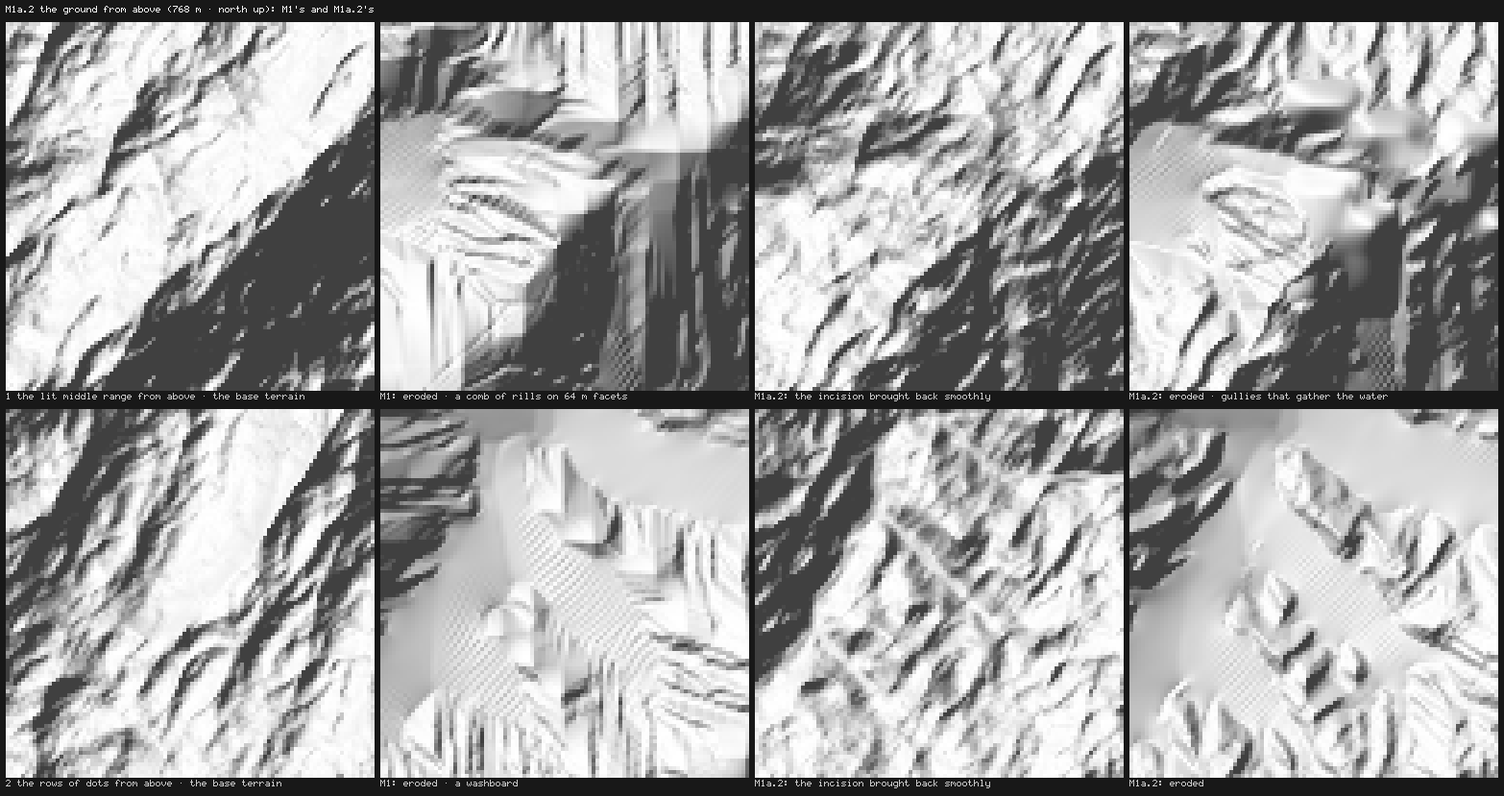
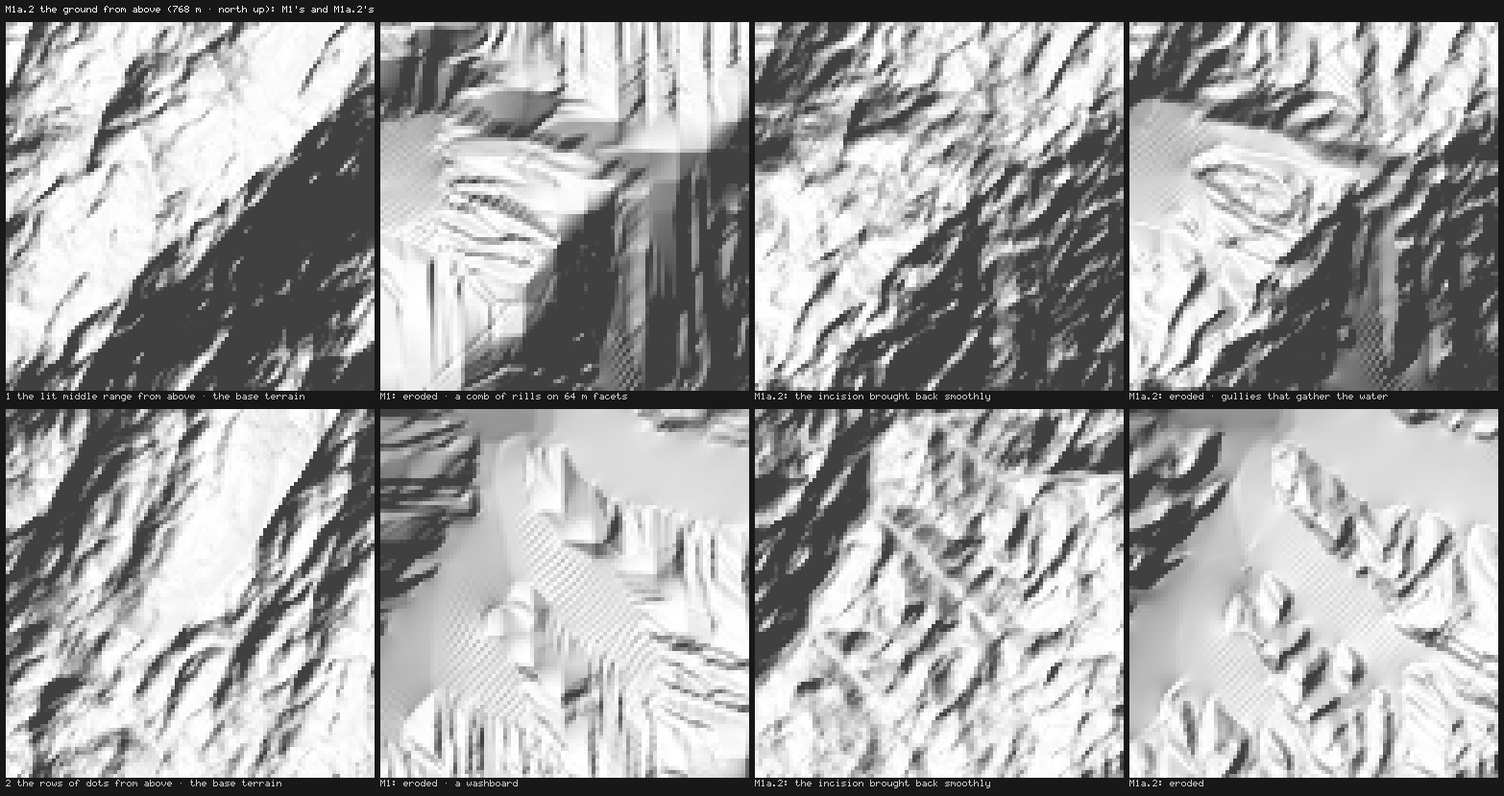
Vista plan: M1a.2 reworked; log, sheets and parked items
M1a.2's status and log gain the rework: what made the blobs, what was
tried and dropped (ice draped over convex beds buried crests the rock
had stood through; capped, it changed nothing), and three shape
measures that did not see the blobs. Parked: ice caps laid as smooth
domes (M7, or the next view that shows one) and the hero's near ridge,
which rises into M1's fixed frame on the reworked world (M1a.4, M1a.7).
The sheets show M1, the first M1a.2 and the rework, and the auto
camera's pick on the new world.

diff --git a/RayTracer/vista-log/M1a.2.md b/RayTracer/vista-log/M1a.2.md
@@ -14,6 +14,31 @@ in the grid's directions. The eroded world: 33.1% → 17.4% along the grid, 7.5%
 terrain 1.4%), drainage and relief no worse. In the hero the lit middle range's rock is less combed, but a glacier now caps its crest
 as smooth pale domes, and the rows of dots remain (M1a.3).
 
+*Reworked (2026-10-29, the user's review: "they look more like blobs than M1 looked").* **The smooth transfer rounded every high
+point.** The monotone cubic leaves every summit and crest the coarse samples hold level, so each came back a rounded top a coarse cell
+(64 m, some 50 pixels at 3.8 km) wide; and a glacier lay on the lit crest as pale domes, its surface the solve's, smooth between 64 m
+samples. The rework keeps the high points pointed (`StreamPower.UpsampleSharp`, `RefineCubic = 2`): at a maximum along a row or a
+column the curve leaves the sample along each segment's own slope, a kink, so a summit stays a point; low points stay rounded. In the
+lit middle range the crests are points again and no ice lies there (0.0% of the place under 5 m of ice, against 6.5% on the first
+world; M1 0.03%). What was learned on the way, and not shipped:
+
+- **The glacier left the crest by chance, not by the sharper summits.** World-wide, as much ice lies on convex ground on the reworked
+  world as on the first (16.9% of its volume on 64 m crests, 15.9% first, M1 13.2%): the ice solve on the 64 m grid moves its ice with
+  any change of the ground. A cap laid as the solve's smooth surface reads as a dome wherever it lies (parked, vista-plan §10, "Ice
+  caps laid as smooth domes").
+- **Ice draped over convex beds** (the solve's thickness over the rock's own shape, `GlacierDrapeMetres`): it turned the first world's
+  domes into ice that follows the crests, but it gave every crest the rock had stood through the full thickness, and the ridge 130 m
+  from the hero's camera rose under 15 m of ice into a smooth mass filling the frame's right. Capped at the smooth surface's thickness
+  (so it adds no ice anywhere) it changed nothing visible. Removed.
+- **Three measures of blobs, none of which saw them**: the crests' fall at 24 m over 48 m (the small crests of the faces' detail
+  dominate it: M1 0.48, smooth 0.52, pointed 0.53), the share of ground domed both ways after smoothing (it counts the detail's knobs:
+  base 10.5%, M1 7.8%, smooth and pointed both 11.8%) and the 64 m summits' drop to their neighbours (37, 40, 36 m). The blobs were
+  ice, at one place. What would have caught them: the ice under each loupe place, which `--erosion-measure`'s crops now report.
+- **The near ridge**: with M1's camera the ridge at the frame's right, 130–160 m off, rises into the frame on the reworked world (its
+  silhouette from x ≈ 3600 to x ≈ 3000 of the 4K frame at y = 1100): metres of change that near the camera swing a sixth of the frame,
+  and the face reads as a smooth dark mass (the near faces' detail is M1a.4). The auto camera's own pick on the new world frames the
+  range without it (`m1a-2-hero.png`, right).
+
 *What was built:*
 
 - **The smooth transfer** (`StreamPower.Refine`, `UpsampleSmooth`): monotone cubic Hermite along the coarse rows, then down the fine
@@ -35,9 +60,14 @@ as smooth pale domes, and the rows of dots remain (M1a.3).
   key only when on, so M1.11d's, M1.12c's and M1.13's settings keep their keys (their pins hold). The hills keep M1.7's passes until
   their own milestone. The cache's passes version is 5.
 - **`--erosion-measure --incise-only`** now reports the grid's patterns and writes the crops of the incision alone (50 s, no GPU),
-  the loop most of this slice ran in; the incision's line names the time back to the world grid.
+  the loop most of this slice ran in; the incision's line names the time back to the world grid. Since the rework each crop's line
+  also gives its share under more than 5 m of ice.
+- **The rework's pointed high points** (`StreamPower.UpsampleSharp`, `RefineCubic = 2`, shipped): the same monotone cubic, but at a
+  maximum along a row or a column the segments leave the sample along their own differences (still between their samples).
+  `RefineCubic = 1` is the first M1a.2's smooth transfer; today's ice is laid smoothly for both.
 - **`vista-views/ground/render.ps1 -Sheets m1a2`**: M1's world (M1's transfer and passes through `VISTA_EROSION_SETTINGS`) and
-  M1a.2's, each made and measured again, and the four sheets.
+  M1a.2's, each made and measured again, the first M1a.2's lit loupe beside them, the auto camera's pick on M1a.2's world, and the
+  four sheets.
 
 *The comb's cause* (tilted planes, a prototype of the pipe model on the CPU, 257² cells of 8 m, a 35° plane roughened by half a metre,
 1500 steps; relief along the grid / windows rippling):
@@ -76,31 +106,37 @@ chosen over 0.01 for the margin: at 0.01 more steep faces stand over their talus
 
 - **The eroded world** (`--erosion-measure`, seed 42, 4097² × 8 m; `measure-m1.log` and `measure-m1a2.log` of the render script):
 
-| | M1 | M1a.2 |
-|---|---|---|
-| incised: along the grid / rippling | 67.5% / 0.2% | 15.2% / 0.8% |
-| incised: channels ≥ 1 km² longest without a lake; into one; lakes | 6.8 km; 48.8%; 6.4% | 2.5 km; 26.2%; 7.7% |
-| eroded: along the grid (steep faces, loose ground) | 33.1% (32.8, 34.1) | 17.4% (17.7, 17.9) |
-| eroded: rippling (steep faces, loose ground) | 7.5% (8.6, 8.6) | 2.0% (1.7, 3.4) |
-| rock's lines of high curvature down the fall line (80–90° off the contour) / along it | 41.5% / 2.4% | 23.4% / 6.3% |
-| channels ≥ 1 km²: longest without a lake; into one; lakes; Strahler | 33.6 km; 95.7%; 0%; 5 | 39.3 km; 96.2%; 0%; 5 |
-| relief 1 km (10/50/90%); 5 km | 332/541/774 m; 960/1173/1454 m | 348/555/785 m; 976/1181/1473 m |
-| 8 m slopes: mean; over 40°; facet; near its talus | 35.3°; 48.6%; 9.9% at 48.6°; 11.0% | 36.7°; 49.5%; 10.5% at 58.8°; 12.2% |
-| 64 m slopes: facet; near its talus | 10.9%; 2.5% | 10.6%; 3.2% |
-| spikes over 5 m (base 1421) / over 20 m | 411 / 0 | 706 / 0 |
-| loose: mean; over 1 m | 12.7 m; 36% | 13.8 m; 38% |
-| at Zermatt: rock, scree, meadow, forest, ice | 45.2, 8.1, 10.9, 26.0, 5.3% | 46.2, 8.2, 11.0, 25.3, 5.0% |
-| glaciers: share; volume; thickest | 7.9%; 3.42 km³; 297 m | 7.6%; 3.33 km³; 275 m |
-| erosion (GPU s; ms a step); back to the world grid (CPU) | 19.7–21.7 s; 13–14 ms; 0.1–0.2 s | 26.4 s; 17.6 ms; 0.5–0.7 s |
+| | M1 | M1a.2 first (smooth) | M1a.2 reworked (pointed) |
+|---|---|---|---|
+| incised: along the grid / rippling | 67.5% / 0.2% | 15.2% / 0.8% | 15.9% / 0.8% |
+| incised: channels ≥ 1 km² longest without a lake; into one; lakes | 6.8 km; 48.8%; 6.4% | 2.5 km; 26.2%; 7.7% | 2.5 km; 25.2%; 7.8% |
+| eroded: along the grid (steep faces, loose ground) | 33.1% (32.8, 34.1) | 17.4% (17.7, 17.9) | 17.7% (17.8, 18.0) |
+| eroded: rippling (steep faces, loose ground) | 7.5% (8.6, 8.6) | 2.0% (1.7, 3.4) | 2.0% (1.8, 3.4) |
+| rock's lines of high curvature down the fall line (80–90° off the contour) / along it | 41.5% / 2.4% | 23.4% / 6.3% | 23.6% / 6.2% |
+| channels ≥ 1 km²: longest without a lake; into one; lakes; Strahler | 33.6 km; 95.7%; 0%; 5 | 39.3 km; 96.2%; 0%; 5 | 39.3 km; 96.2%; 0%; 5 |
+| relief 1 km (10/50/90%); 5 km | 332/541/774 m; 960/1173/1454 m | 348/555/785 m; 976/1181/1473 m | 346/552/783 m; 972/1179/1474 m |
+| 8 m slopes: mean; over 40°; facet; near its talus | 35.3°; 48.6%; 9.9% at 48.6°; 11.0% | 36.7°; 49.5%; 10.5% at 58.8°; 12.2% | 36.5°; 49.1%; 10.2% at 58.7°; 11.8% |
+| 64 m slopes: facet; near its talus | 10.9%; 2.5% | 10.6%; 3.2% | 10.6%; 3.1% |
+| spikes over 5 m (base 1421) / over 20 m | 411 / 0 | 706 / 0 | 1081 / 2 |
+| loose: mean; over 1 m | 12.7 m; 36% | 13.8 m; 38% | 13.5 m; 38% |
+| at Zermatt: rock, scree, meadow, forest, ice | 45.2, 8.1, 10.9, 26.0, 5.3% | 46.2, 8.2, 11.0, 25.3, 5.0% | 45.9, 8.2, 11.2, 25.4, 5.0% |
+| glaciers: share; volume; thickest | 7.9%; 3.42 km³; 297 m | 7.6%; 3.33 km³; 275 m | 7.6%; 3.35 km³; 226 m |
+| erosion (GPU s; ms a step); back to the world grid (CPU) | 19.7–21.7 s; 13–14 ms; 0.1–0.2 s | 26.4 s; 17.6 ms; 0.5–0.7 s | 26–31 s; 17–21 ms; 0.65 s |
+
+The reworked world's eroded hash is `221d35af5bebe0e0` in both of its runs. Its erosion times varied by run: other work held about
+5 GB of the GPU's memory during the rework, and two renders hit the Windows GPU timeout before passing on a retry (gotchas). The
+pointed summits leave more single cells standing over their neighbours (1081 spikes over 5 m, the base terrain 1421).
 
 The incised ground drains worse than M1's before the GPU erosion (its longest channel without a lake 6.8 → 2.5 km): the faces' detail
 brings the base terrain's small hollows back onto the cut faces. The erosion fills them (its pools to 100 m); the eroded world drains
 better than M1's.
 
-- **The places** (the crops' lines): the lit middle range (2000, 850), 3.8 km off, 35.9% → 17.0% along the grid, rippling 9.0% →
-  2.1%; the rows of dots (1300, 1250), 3.4 km, 32.1% → 15.4%, 16.0% → 1.4%; the near face (3520, 1680), 132 m off at 4 cm a pixel
-  (the 8 m cell 192 pixels), 30.5% → 15.6%, 9.0% → 4.2%.
-- **Tests** (Release, the whole solution: Vista.Tests 962, three more; RayTracer.Tests 336, Pinball.Tests 55): the smooth upsampling
+- **The places** (the crops' lines, M1 → reworked): the lit middle range (2000, 850), 3.8 km off, 35.9% → 16.6% along the grid,
+  rippling 9.0% → 1.4%, under ice 0.03% → 0.0% (the first M1a.2: 6.5%); the rows of dots (1300, 1250), 3.4 km, 32.1% → 15.7%,
+  16.0% → 1.4%; the near face (3520, 1680), 134 m off at 4 cm a pixel (the 8 m cell 188 pixels), 30.5% → 15.7%, 9.0% → 4.9%, its
+  768 m square under ice 12.0% → 13.6% (the face itself is rock).
+- **Tests** (Release, the whole solution: Vista.Tests 963, four more; RayTracer.Tests 336, Pinball.Tests 55): the sharp upsampling
+  keeps a straight-sided ridge's point where the smooth one rounds it, and rounds a valley floor alike; the smooth upsampling
   keeps the coarse samples and a plane, stays between two samples along a row and has no crease at a bend; the curved channels take
   the saddles out of a diagonal V-valley's floor, keep its coarse samples, leave the ground beyond a coarse cell alone and report
   their distances; three corner cuts turn an east-north-east zigzag into a falling curve that keeps its ends and passes none of its
@@ -108,12 +144,15 @@ better than M1's.
   comb it without the spread (over half the windows ripple, over 40% of the relief along the rows) and do not with it (under 10%,
   under 25%). M1.7's erosion keeps its pin, M1.11d's transfer its pin; the shipped ones are pinned anew.
 - **The GPU**: `--gpu-selftest` passes (90 checks, three more: the discharge and its two spreads against the C# reference, the largest
-  difference 8e-8 of the largest value; 200 steps within 2 mm); 22 committed views above the eroded ground, the lowest 2.0 m.
-- **The goldens** (`--golden-check`): eight of ten moved, as the plan expects until M1a.7: every view over the eroded world (aerial
-  −3.2% mean luminance, default −0.6%, down-slope +17.9% (its camera lifted 8.6 m), hero −0.6%, alpenglow at dusk −0.3% and dawn
-  +1.5%, April's slopes −5.1%, the misty ridges −1.0%); the sky and twilight within tolerance.
+  difference 8e-8 of the largest value; 200 steps within 2 mm); 22 committed views above the eroded ground, the lowest 2.0 m (the
+  reworked world: 90 checks again, the lowest 2.6 m).
+- **The goldens** (`--golden-check`): eight of ten moved, as the plan expects until M1a.7: every view over the eroded world. On the
+  reworked world: aerial −2.3% mean luminance, default +0.4%, down-slope −0.1% (its blocks 73% rms: other ground in every pixel),
+  hero −3.6%, alpenglow at dusk +0.03% and dawn +1.0%, April's slopes −3.9%, the misty ridges −0.4%; the sky and twilight within
+  tolerance.
 - **The cost ledger** (`vista-views/measure.ps1`): 0.30 / 6.92 / 5.11 / 18.70 ns a pixel-sample against M1.17's 0.44 / 6.95 / 5.84 /
-  20.79; the integrator is unchanged, the default and down-slope views stand on other ground.
+  20.79, on the first M1a.2's world; the integrator is unchanged, the default and down-slope views stand on other ground. Not measured
+  again for the rework: other work held the GPU at 95% (5.6 GB of its 8 GB) and the aerial view's render hit the Windows GPU timeout.
 - **The views** (`MeasurementViewTests`, the self-test): on M1a.2's ground the default and sky views stood 16.3 m under the incised
   ground (11.8 m under the eroded), the down-slope view 5.6 m, `pools/fog-sea` 2.4 m under the eroded ground and `pools/mist-lake`
   0.4 m over it; each keeps its pose and is lifted to stand where it stood: the default and sky views 2 m above the incised ground
@@ -133,12 +172,14 @@ better than M1's.
 - **The channels' V at the hard rock's talus (60°)**, so the carving never cuts a coarse wall back; the flat floor three quarters of a
   cell wide, so a route along a curve between samples meets no pit (with a V's foot alone, the curves cut the incised ground's longest
   channel without a lake from 6.9 to 3.8 km).
-- **The glacier on the lit crest is kept**: it is where the ice solve puts it on the new ground, not an artefact of the transfer (laid
-  bilinearly it is the same glacier, faceted). Its smooth domes are parked for the user's verdict.
+- **Pointed high points, smooth everywhere else** (the rework): the user's verdict on the first M1a.2 (blobs) over its numbers,
+  which could not see them; the grid's patterns are the same either way (17.7% against 17.4% along the grid).
+- **No draped ice**: draped, the ice buried the crests the rock stood through; capped, it changed nothing. Where the ice lies is the
+  solve's, and it moves with the ground; how a cap looks is parked (§10, "Ice caps laid as smooth domes").
 - **The near views lifted, not searched for again**: same spots, same poses, at the heights above the ground they had, so the ledger's
   views change as little as the ground lets them.
-- **The hero's camera stays** (`signoff/hero.camera.json`, now 165 m above the eroded ground under it, 150 m before); the auto camera
-  was not run on the new world (M1a.7).
+- **The hero's camera stays** (`signoff/hero.camera.json`, 150 m above M1's eroded ground), so every slice compares with M1's
+  frame; the auto camera's pick on the reworked world is shown beside it (`m1a-2-hero.png`), a heading that leaves the near ridge out.
 
 *Gotchas:*
 
@@ -154,12 +195,20 @@ better than M1's.
   bound even when the spread is off.
 - **The curve test's head**: four side cells tie as the head's largest donor; the first in row order wins and turns the stream in
   from the side, so the test's channel threshold keeps only the floor's cells.
+- **The numbers rewarded the blobs** (the rework's lesson): the grid's patterns score round shapes as natural, and none of three
+  shape measures saw what the eye saw, which was ice at one place. Look at the loupes before believing a measure, and ask what a
+  measure cannot see.
+- **The Windows GPU timeout with the GPU shared**: about 5 GB of the 3070's memory was held by other work, and three renders
+  (a loupe's trace twice, a near view's acceleration-structure build once) were removed by the driver's timeout (TDR); each passed on
+  a retry, and the same renders had passed earlier in the day.
 
-**M1a.2 hand-off.** To understand this, start with `vista-views/sheets/m1a-2-ground.png` (from above, M1's ground beside M1a.2's),
-then `Vista.Core/World/StreamPower.cs` (`Refine`, `UpsampleSmooth`, `CarveChannels`, `FinerThanCell`) and
+**M1a.2 hand-off.** To understand this, start with `vista-views/sheets/m1a-2-lit.png` (M1, the first M1a.2's blobs, the rework) and
+`m1a-2-ground.png` (from above, M1's ground beside M1a.2's), then `Vista.Core/World/StreamPower.cs` (`Refine`, `UpsampleSharp`,
+`CarveChannels`, `FinerThanCell`) and
 `Vista.Core/World/ErosionReference.cs` (`SpreadDischarge`, mirrored in `Vista.App/Shaders/VistaErosion.hlsl`). What is left of the
 grid's patterns: the washboard on gentle loose ground (3.4% of its windows ripple) and the rows of dots it leaves in the render
-(M1a.3), and the talus planes' creases (parked, for M1a.4).
+(M1a.3), and the talus planes' creases (parked, for M1a.4). What is left of the blobs: ice caps laid as smooth domes wherever the
+solve puts a cap (parked), and near faces that read as smooth masses (M1a.4).
 
 *Commands (from `RayTracer/`, after `dotnet build Vista.App -c Release`):*
 
@@ -175,6 +224,10 @@ M1's world for comparison: `$env:VISTA_EROSION_SETTINGS = 'RefineCubic=0;RefineC
 
 *Files:*
 
+- The rework changed: `Vista.Core/World/StreamPower.cs` (`UpsampleSharp`), `ErosionSettings.cs` (`RefineCubic` 2), `Glaciers.cs`
+  (smooth ice for 1 and 2), `Vista.App/Gpu/ErosionMeasure.cs` (the crops' ice), `Vista.Tests/StreamPowerTests.cs`,
+  `ErosionReferenceTests.cs`; `vista-views/ground/render.ps1` (the first M1a.2's loupe, the auto camera's pick); the log, the plan,
+  the READMEs, the ledger and the four sheets.
 - Changed: `Vista.Core/World/StreamPower.cs` (the transfer, the curves, the faces' detail), `ErosionReference.cs` (the spread
   discharge, the state's `Discharge`), `ErosionSettings.cs` (the new settings, the mountains' and hills' values, the constants'
   `SpreadDischarge`), `Glaciers.cs` (the ice laid smoothly), `ErosionCache.cs` (passes version 5); `Vista.App/Shaders/VistaErosion.hlsl`
@@ -187,10 +240,9 @@ M1's world for comparison: `$env:VISTA_EROSION_SETTINGS = 'RefineCubic=0;RefineC
 
 *Next:* M1a.3 — the washboard gone (vista-plan §10, M1a plan).
 
-*Judge this:* `m1a-2-ground.png`, the ground under the lit middle range (top) and under the rows of dots (bottom) from above: the
-mountain as first drawn (left), M1's eroded ground, M1a.2's before and after the water's erosion; then `m1a-2-lit.png` and
-`m1a-2-near.png` (M1's pixels beside M1a.2's) and `m1a-2-hero.png`. *Ignore this:* the rows of dots and the washboard on gentle ground
-(M1a.3); the rock's own texture and the near face's flat look in shade (M1a.4); the light and dark bands on the rock (M1a.5); the
-meadows (M1a.6); the trees (M5). *Questions:* From above, does the right-hand square of each row look more like real mountain ground
-than M1's (second)? In the lit loupe, do the rock faces still look combed, or do they read as gullies and ribs? On the lit crest there
-are now smooth white domes: do they read as snow and ice on a summit, or as something else?
+*Judge this:* `m1a-2-lit.png`, the lit middle range: M1 (top), the first M1a.2 with its blobs (middle), the rework (bottom); then
+`m1a-2-hero.png` (M1, M1a.2 from M1's camera, and the auto camera's own pick on M1a.2's world) and `m1a-2-ground.png` (from above).
+*Ignore this:* the rows of dots and the washboard on gentle ground (M1a.3); the rock's own texture and the near face's smooth dark look
+in shade (M1a.4); the light and dark bands on the rock (M1a.5); the meadows (M1a.6); the trees (M5). *Questions:* In the bottom loupe,
+do the crests read as rock again, or still as blobs? Do its faces read as gullies and ribs, or as combed? In the hero from M1's camera
+the slope at the right now looms large: does the auto camera's pick beside it look like a better picture of the same mountains?

diff --git a/RayTracer/vista-plan.md b/RayTracer/vista-plan.md
@@ -353,7 +353,8 @@ change.
   uncarved), the relief grows and the summits nearly keep their height; the ice's water runs under it, along the ground's
   drainage, which holds (95–97% of the grid into a 1 km² channel).
 - **The grid's own patterns** (M1a.2, [`vista-log/M1a.2.md`](vista-log/M1a.2.md)): the incision comes back to the 8 m grid with a
-  continuous slope (monotone cubic along the rows, then the columns), its channels carved along their streams' lines with the
+  continuous slope (monotone cubic along the rows, then the columns; its high points kept pointed, a kink at each maximum, since a
+  smooth top a coarse cell wide reads as a blob), its channels carved along their streams' lines with the
   corners cut, and the base terrain's detail finer than the 64 m cell kept on the faces it cut (M1.11a faded it out over 25 m of
   change, leaving bare 64 m facets with straight seams). The pipe model's water erodes over a channel's width, its discharge spread
   twice by `[1 2 1]` before the capacity reads it: on a face falling along the grid's rows no water crosses from lane to lane, so
@@ -2181,11 +2182,16 @@ incised 67.5%; eroded 33.1%) and the share of 128 m windows rippling at 2–4 ce
   eight neighbours for the flow and varying rain were not needed (eight pipes alone move the comb to the diagonals). Eroded: 33.1% →
   17.4% along the grid (the base 14.6%), rippling 7.5% → 2.0% (1.4%); the lines of high curvature running down the fall line 41.5%
   → 23.4% of the rock's; drainage and relief no worse; the 8 m facet share 9.9% → 10.5%; the erosion 20 → 26 GPU s. The near views
-  re-placed on the new ground; eight goldens moved (re-baselined at M1a.7). *Judge this:* `m1a-2-ground.png` (from above),
-  `m1a-2-lit.png`, `m1a-2-near.png`, `m1a-2-hero.png`. *Ignore this:* the rows of dots (M1a.3), the rock's texture and the near
-  face's flatness in shade (M1a.4), the beds' bands (M1a.5), the meadows (M1a.6). *Questions:* from above, does the right-hand square
-  of each row now look like mountain ground? In the lit loupe, do the rock faces still look combed? Do the new smooth white domes on
-  the lit crest read as snow and ice, or as something else? Log: [`vista-log/M1a.2.md`](vista-log/M1a.2.md).
+  re-placed on the new ground; eight goldens moved (re-baselined at M1a.7). *Reworked (2026-10-29, the user: "they look more like
+  blobs than M1"):* the smooth transfer left every summit and crest rounded a coarse cell wide, and a glacier capped the lit crest as
+  pale domes; the incision now keeps its high points pointed (a kink at each maximum along a row or column), and the lit crest is
+  rock again (its ice by chance: parked, "Ice caps laid as smooth domes"). The grid's measures are unchanged (17.7%, 2.0%); three
+  shape measures tried did not see the blobs, so the crops now report each place's ice. *Judge this:* `m1a-2-lit.png` (M1, the first
+  M1a.2, the rework), `m1a-2-hero.png` (with the auto camera's pick on the new world), `m1a-2-ground.png`, `m1a-2-near.png`. *Ignore
+  this:* the rows of dots (M1a.3), the rock's texture and the near faces' smooth dark look in shade (M1a.4), the beds' bands (M1a.5),
+  the meadows (M1a.6). *Questions:* in the bottom loupe, do the crests read as rock, or still as blobs? Do its faces read as gullies
+  and ribs, or combed? From M1's camera the slope at the right looms: does the auto camera's pick look like a better picture of the
+  same mountains? Log: [`vista-log/M1a.2.md`](vista-log/M1a.2.md).
 - **M1a.3 — The washboard gone** (the dots). Whatever ripple M1a.2 leaves on gentle loose ground: the pipe model's deposition kept
   stable there (its rates on gentle slopes, a creep of loose material; M1.7's tuning measured again), and the rules' slope read from
   the grid's normal over a few cells, so no grid-scale wobble is cut into dots. *Verify:* the loose ground's ripple at the base
@@ -2368,11 +2374,17 @@ any of them.
   between the eroded world (17.4%) and the base terrain (14.6%) is mostly this. A talus that runs every way (the drops weighed by
   direction, or a rock talus that varies from place to place) would take it. *Belongs:* M1a.4 (rock below the grid: ribs and
   buttresses from the rock's hardness).
-- **Glacier domes on a lit crest** (M1a.2): the new ground moved today's glaciers (their solve on the 64 m grid reads the ground
-  averaged there; 7.9% → 7.6% of the grid, the thickest 297 → 275 m), and one now caps the hero's lit middle range, its surface
-  the solve's, smooth between 64 m samples, so it reads as pale rounded domes. Laid bilinearly before, it would be the same shapes
-  faceted. Real ice there would show crevasses, seracs and rock poking through. *Belongs:* the user's verdict on `m1a-2-lit.png`;
-  M7 (close-up snow and ice) otherwise.
+- **Ice caps laid as smooth domes** (M1a.2; the user's review: "they look more like blobs than M1"): today's ice is laid as the
+  solve's surface, smooth between its 64 m samples, so a cap on a crest reads as pale rounded domes. On the first M1a.2 one capped
+  the hero's lit middle range; the rework's ground moved it off (by chance: world-wide as much ice lies on 64 m crests, 16.9% of its
+  volume against 15.9%). Tried in M1a.2's rework and dropped: the solve's thickness draped over the rock (it buried crests the rock had
+  stood through: the ridge beside the hero's camera rose under 15 m of ice into the frame), and the same capped at the smooth
+  surface's thickness (no visible change). Real caps show the crest under them, cornices, crevasses and rock poking through.
+  *Belongs:* M7 (close-up snow and ice); the next view that shows a cap in its picture's subject, sooner.
+- **The hero's near ridge** (M1a.2's rework): with M1's fixed camera the ridge 130–160 m to the right rises into the frame on the
+  reworked world (metres of change that near the camera swing a sixth of the frame) and reads as a smooth dark mass; the auto
+  camera's own pick on the new world leaves it out. *Belongs:* M1a.4 (the near faces' detail), and M1a.7 (whether the sign-off's hero
+  keeps M1's camera or takes the auto camera's pick).
 - **Glaciers that follow the place** (M1.13): today's glaciers are the recipe's, the same at Zermatt,
   Lofoten and Fiordland, in every season. *Decided (2026-10-25):* yes; how low glaciers reach follows
   the climate (far lower where it is cold and wet than in the Alps), so today's glaciers come from

diff --git a/RayTracer/vista-views/sheets/README.md b/RayTracer/vista-views/sheets/README.md
@@ -135,7 +135,7 @@ Sheets that back a decision in a slice's log ([`vista-log/`](../../vista-log/REA
 | `m1a-1-dots.png` | M1a.1 | Place 2, 3.4 km off, 2 EV brighter to see into the shade: the loupe, its material ids (scree, meadow and forest by turns in rows) and normals (a lattice of dimples); below, the ground from above at the three stages (a flat gentle facet, then the pipe model's washboard 2–4 cells apart); 64 spp, denoised | `ground/render.ps1 -Sheets dots` |
 | `m1a-1-beds.png` | M1a.1 | Place 3, the shaded foreground 1.5 km off at 0.49 m a pixel, 2 EV brighter: the loupe, its albedo (the bands are colour), material ids (hard and soft beds by height) and normals (no step at any band); 64 spp, denoised | `ground/render.ps1 -Sheets beds` |
 | `m1a-1-meadows.png` | M1a.1 | Place 4, a lit crest 3.9 km off at 1.23 m a pixel: the loupe, its albedo (flat green, clean cut edges) and material ids (meadow where the 8 m cells are gentle); 64 spp, denoised | `ground/render.ps1 -Sheets meadows` |
-| `m1a-2-hero.png` | M1a.2 | The hero (seed 42, golden hour, `signoff/hero.camera.json`) at 640 px on M1's ground and on M1a.2's (the incision brought back smoothly with its faces' detail, the spread discharge, the slower thermal pass): a glacier now caps the lit middle range's crest; 64 spp, denoised | `ground/render.ps1 -Sheets m1a2` |
-| `m1a-2-lit.png` | M1a.2 | A 640×360 loupe of the 4K frame, pixel for pixel: the lit middle range 3.8 km off at 1.2 m a pixel, M1's beside M1a.2's (the rock less combed; the glacier's smooth domes on the crest); 64 spp, denoised | `ground/render.ps1 -Sheets m1a2` |
+| `m1a-2-hero.png` | M1a.2 (reworked) | The hero (seed 42, golden hour) at 640 px: M1's, M1a.2's from M1's camera (`signoff/hero.camera.json`; the incision brought back with a continuous slope and pointed high points, its faces' detail, the spread discharge, the slower thermal pass; the ridge at the right now looms), and the auto camera's own pick on M1a.2's world; 64 spp, denoised | `ground/render.ps1 -Sheets m1a2` |
+| `m1a-2-lit.png` | M1a.2 (reworked) | A 640×360 loupe of the 4K frame, pixel for pixel: the lit middle range 3.8 km off at 1.2 m a pixel: M1's, the first M1a.2's (its summits rounded, a glacier's smooth domes on the crest: the review's blobs) and the reworked M1a.2's (high points pointed); 64 spp, denoised | `ground/render.ps1 -Sheets m1a2` |
 | `m1a-2-near.png` | M1a.2 | A 640×360 loupe of the 4K frame: the near face at the frame's right, 130 m off at 4 cm a pixel, in shade, 2 EV brighter, M1's beside M1a.2's; 64 spp, denoised | `ground/render.ps1 -Sheets m1a2` |
 | `m1a-2-ground.png` | M1a.2 | The ground under the lit middle range (top) and the rows of dots (bottom) from above, 768 m, north up: the base terrain, M1's eroded ground (a comb of rills on 64 m facets, a washboard), M1a.2's incision brought back smoothly, and M1a.2's eroded ground (gullies that gather the water; a washboard left on the gentle fans) | `ground/render.ps1 -Sheets m1a2` |

diff --git a/RayTracer/vista-views/README.md b/RayTracer/vista-views/README.md
@@ -458,7 +458,8 @@ dotnet Vista.App/bin/Release/net10.0-windows/Vista.App.dll --erosion-measure --r
 
 ## Ground that gathers its water (M1a.2)
 
-`ground/render.ps1 -Sheets m1a2` makes M1's world and M1a.2's and sets them side by side (vista-plan §10, M1a.2): M1's with M1's grid
+`ground/render.ps1 -Sheets m1a2` makes M1's world and M1a.2's and sets them side by side (vista-plan §10, M1a.2; since its rework also
+the first M1a.2's lit loupe, `RefineCubic=1`, and the auto camera's pick on M1a.2's world): M1's with M1's grid
 transfer and erosion passes (`VISTA_EROSION_SETTINGS=RefineCubic=0;RefineChannelCurves=0;RefineFaceDetail=0;DischargeSpread=0;ThermalRate=0.25`),
 each eroded and measured again by `--erosion-measure` (`measure-m1.log`, `measure-m1a2.log`: the grid's patterns, the drainage, the
 relief and the places' distances), then the hero at 640 px (`m1a-2-hero.png`), 640×360 loupes of the 4K frame of the lit middle range
